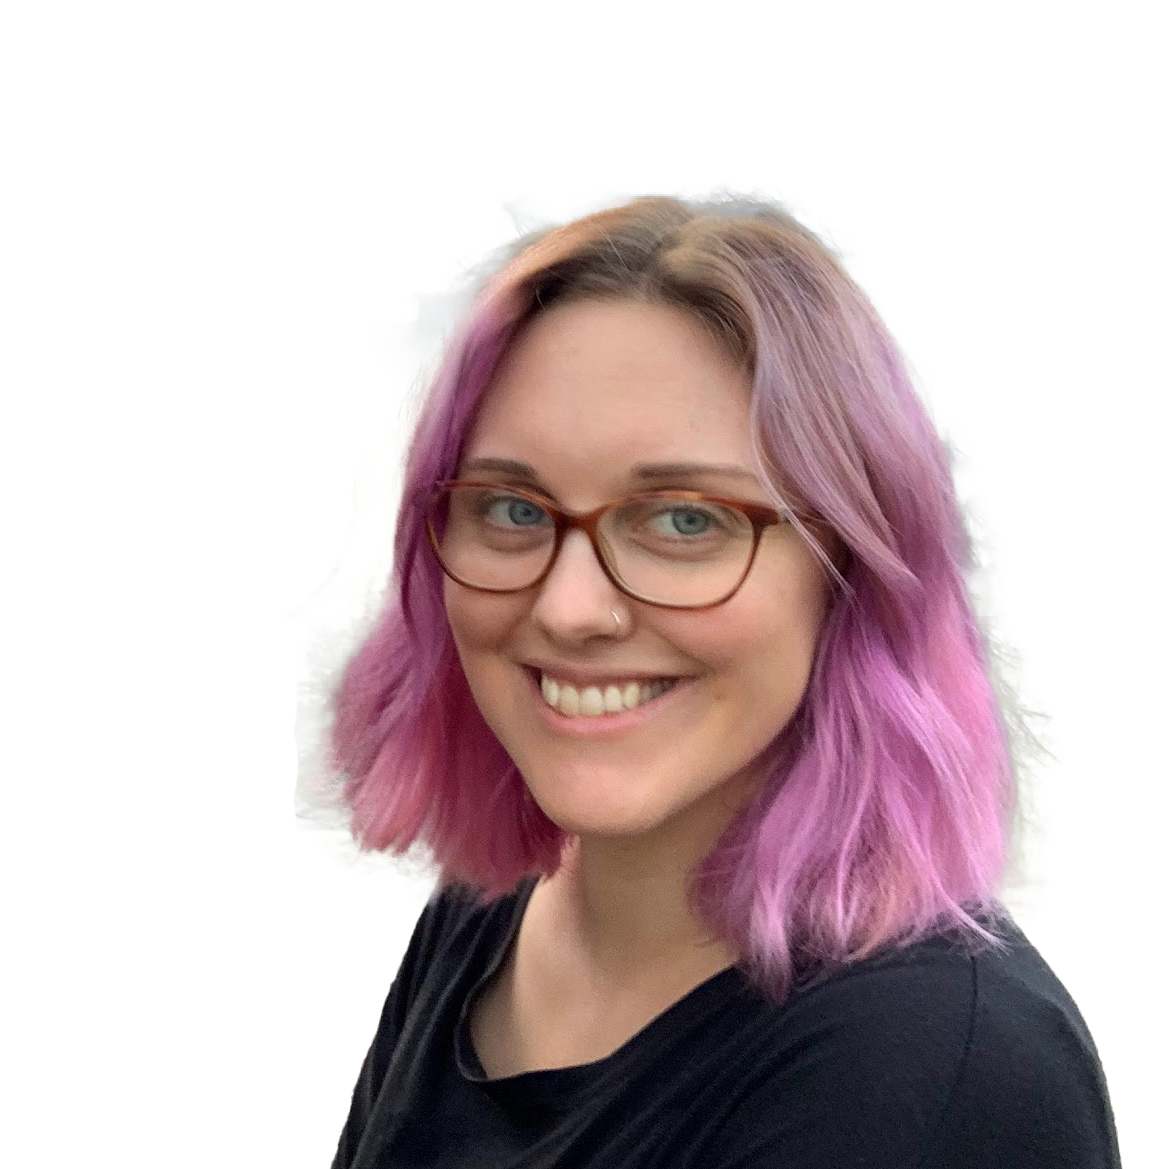
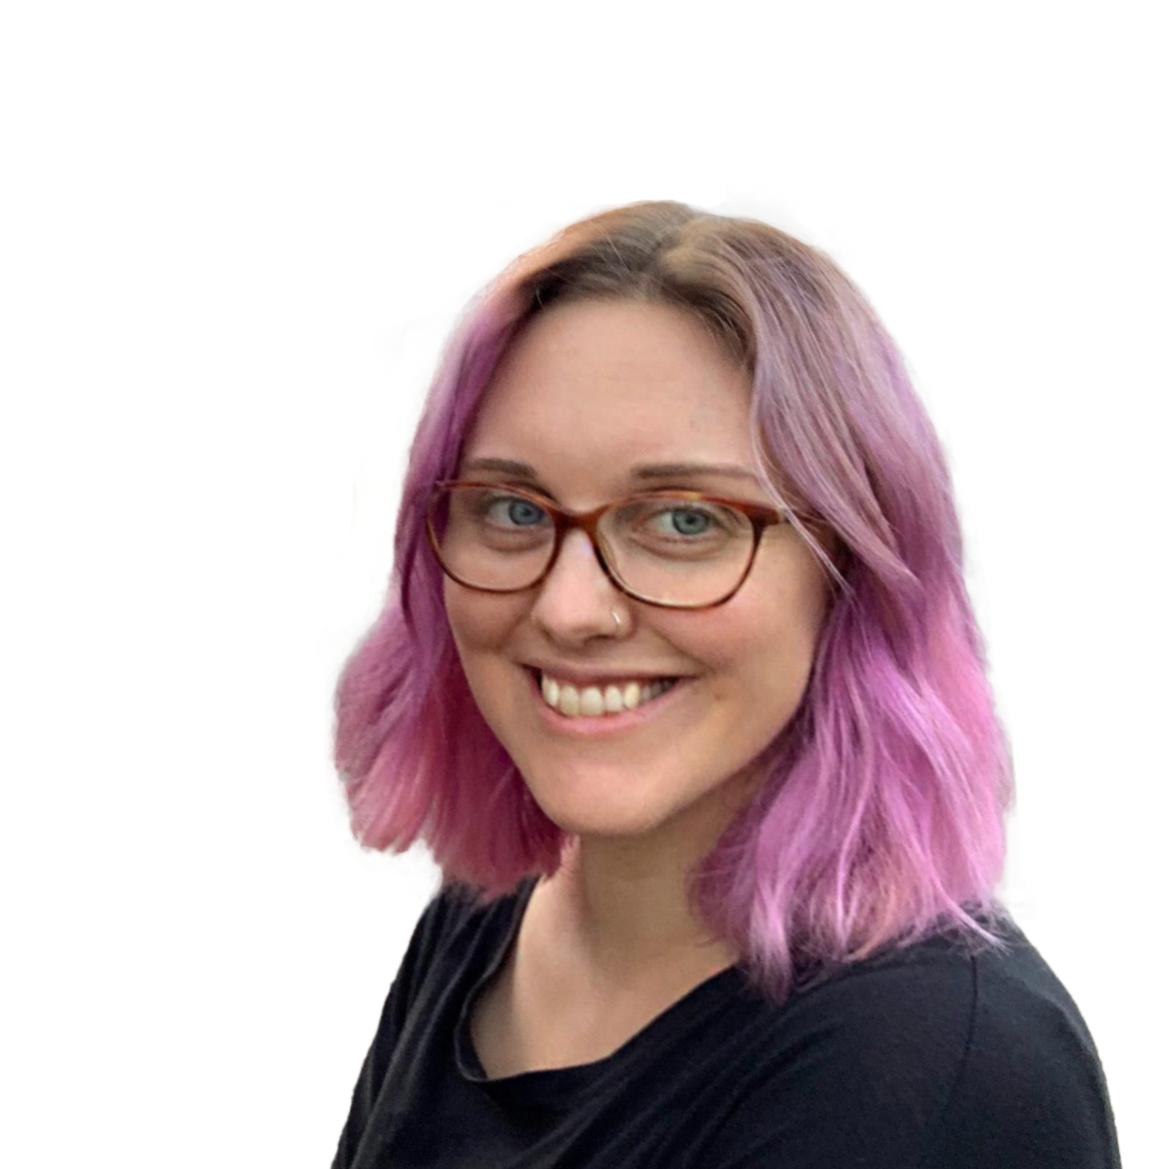
position profile pic

diff --git a/src/app/posts/[postId]/page.tsx b/src/app/posts/[postId]/page.tsx
@@ -2,6 +2,7 @@ import { getPostData, getSortedPostsData } from "../../../../lib/posts";
 import { notFound } from "next/navigation";
 import { getFormattedDate } from "../../../../shared/helpers";
 import Link from "next/link";
+import { MyProfilePic } from "src/app/components/my-profile-pic";
 
 export function generateStaticParams() {
   const posts = getSortedPostsData();
@@ -43,8 +44,8 @@ export default async function Post({ params }: { params: { postId: string } }) {
   const formattedDate = getFormattedDate(date);
 
   return (
-    <main className="prose prose-xl mx-auto px-6">
-      <h1 className="mb-0 mt-4 text-3xl">{title}</h1>
+    <main className="prose prose-xl mx-auto my-10 px-6">
+      <h1 className="mb-0 mt-4 text-5xl">{title}</h1>
       <p className="mt-0">{formattedDate}</p>
       <article>
         <section dangerouslySetInnerHTML={{ __html: contentHtml }} />
@@ -52,6 +53,7 @@ export default async function Post({ params }: { params: { postId: string } }) {
           <Link href="/">Back to home</Link>
         </p>
       </article>
+      <MyProfilePic classnames="fixed bottom-0 right-0" />
     </main>
   );
 }

diff --git a/src/app/components/my-profile-pic.tsx b/src/app/components/my-profile-pic.tsx
@@ -1,10 +1,14 @@
 import Image from "next/image";
+import classNames from "classnames";
 
-export function MyProfilePic() {
+type MyProfilePicProps = {
+  classnames?: string;
+};
+export function MyProfilePic({ classnames }: MyProfilePicProps) {
   return (
-    <section className="fixed top-0 mx-auto w-full">
+    <section className={classNames(classnames ? classnames : "fixed top-0 mx-auto w-full")}>
       <Image
-        className="mx-auto rounded-3xl"
+        className="mx-auto my-0"
         src="/images/me.png"
         width={200}
         height={200}

diff --git a/src/app/page.tsx b/src/app/page.tsx
@@ -1,7 +1,9 @@
-import { Posts } from "src/app/components/posts";
+import { MyProfilePic } from "src/app/components/my-profile-pic";
+import { Posts } from "src/app/components/posts-list";
 export default function Home() {
   return (
     <main className="relative top-[130px] mx-auto px-6">
+      <MyProfilePic />
       <p className="mb-12 border-2 p-10 text-center text-3xl text-blue-800">
         Ahoy and Welcome! 👋🏻&nbsp;
       </p>

diff --git a/src/app/layout.tsx b/src/app/layout.tsx
@@ -16,7 +16,6 @@ export default function RootLayout({ children }: { children: React.ReactNode }) 
     <html lang="en">
       <body className={inter.className}>
         <NavBar />
-        <MyProfilePic />
         {children}
       </body>
     </html>
